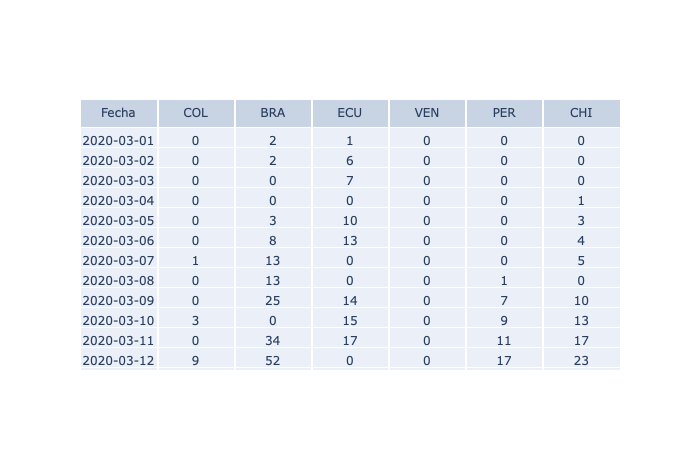
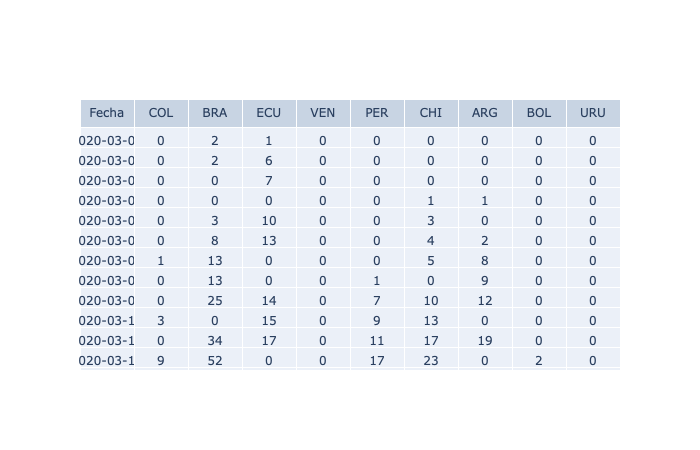
Se actualizó algunas secciones del código, título, se agregaron más países y se

diff --git a/grafico_evo_covid_19_suramerica_python.py b/grafico_evo_covid_19_suramerica_python.py
@@ -8,7 +8,9 @@ import numpy as np
 import datetime
 import plotly.graph_objects as go
 
-x1 = np.linspace(0.0, 50, 100, 4000)
+#x1 = np.linspace(0.0, 25, 100, 200, 300)
+
+#x1 = plt.axis([50, 100, 150, 200])
 
 #Incluyo algunos datos para la comparación con el total del mundial, China e Italia
 #y1 = lista_casos_Mundo = [87024,89068,90663]
@@ -20,8 +22,15 @@ y6 = lista_casos_Ecuador 	= [1, 6, 7, 0, 10,13, 0, 0,14,15,17,0, 0, 23, 28,  37,
 y7 = lista_casos_Venezuela 	= [0, 0, 0, 0,  0, 0, 0, 0, 0, 0, 0,0, 0,  0, 10,  15, 33, 33, 33, 33,  36,  36,  36]
 y8 = lista_casos_Peru 	= [0, 0, 0, 0, 0, 0, 0, 1, 7, 9, 11, 17,22, 38,  43, 71,  86, 117, 145, 234, 263,  318,  363]
 y9 = lista_casos_Chile 	= [0, 0, 0, 1, 3, 4, 5, 0, 10, 13, 17, 23,33, 43,  61, 75,  156, 201, 238, 342, 434,  537,  632]
+y10 = lista_casos_Argentina 	= [0, 0, 0, 1, 0, 2, 8, 9, 12, 0, 19, 0, 31, 34,  45, 56,  65, 79, 97, 128, 158,  225,  266]
+y11 = lista_casos_Bolivia 	= [0, 0, 0, 0, 0, 0, 0, 0, 0, 0, 0, 2, 31, 34,  45, 56,  65, 79, 97, 128, 158,  225,  266]
+y12 = lista_casos_Uruguay 	= [0,0,0,0,0,0,0,0,0,0,0,0,0,0,6,8,29,50,79,94,110,135,158]
 
-fig, ax = plt.subplots(figsize=(5, 3), tight_layout=True)
+
+#Controla el tamaño de la gráfica
+fig, ax = plt.subplots(figsize=(7, 5), tight_layout=True)
+#Título de la ventan creada
+fig.canvas.set_window_title('Total casos confirmados COVID-19 Sur América')
 
 #Se establece la fecha inicio para graficar los datos.
 base = datetime.date(2020, 3, 1) 
@@ -36,12 +45,16 @@ plt.title("Gráfica de la distribución total de personas reportadas \n por COVI
 #ax.plot(time1, y1, 'go-', label='Mundo', color='red', marker='o')
 #ax.plot(time2, y2, 'go-', label='China', color='black', marker='o')
 #ax.plot(time3, y3, 'go-', label='Italia', color='blue', marker='o')
-ax.plot(time, y4, 'go-', label='Colombia', color='red', marker='*')
-ax.plot(time, y5, 'go-', label='Brasil', color='green', marker='.')
-ax.plot(time, y6, 'go-', label='Ecuador', color='purple', marker='.')
-ax.plot(time, y7, 'go-', label='Venezuela', color='brown', marker='.')
-ax.plot(time, y8, 'go-', label='Peru', color='orange', marker='.')
-ax.plot(time, y9, 'go-', label='Chile', color='gray', marker='.')
+ax.plot(time, y4, 'go--', label='Colombia', color='red', marker='*')
+ax.plot(time, y5, 'go-', label='Brasil', color='green', marker='')
+ax.plot(time, y6, 'go-', label='Ecuador', color='purple', marker='')
+ax.plot(time, y7, 'go-', label='Venezuela', color='brown', marker='')
+ax.plot(time, y8, 'go-', label='Peru', color='orange', marker='')
+ax.plot(time, y9, 'go-', label='Chile', color='gray', marker='')
+ax.plot(time, y10, 'go-', label='Argentina', color='blue', marker='')
+ax.plot(time, y11, 'go-', label='Bolivia', color='yellow', marker='')
+#ax.plot(time, y12, 'go-', label='Uruguay', color='yblack', marker='')
+
 
 plt.legend(loc = "upper left") #Permite que las leyendas se muestren
 
@@ -49,11 +62,16 @@ plt.legend(loc = "upper left") #Permite que las leyendas se muestren
 ax.tick_params(axis='x', rotation=80)
 
 #Imprime la tabla
-fig = go.Figure(data=[go.Table(header=dict(values=['Fecha','COL','BRA','ECU','VEN','PER','CHI']),
-                 cells=dict(values=[time, y4, y5, y6, y7, y8, y9]))
+fig = go.Figure(data=[go.Table(header=dict(values=['Fecha','COL','BRA','ECU','VEN','PER','CHI','ARG','BOL','URU']),
+                 cells=dict(values=[time, y4, y5, y6, y7, y8, y9, y10, y11, y12]))
 ])
 
 fig.show()
-plt.grid(True)
+#plt.grid(True) #Grilla por defecto.
+#Grilla modificada
+plt.grid(color='b', alpha=0.5, linestyle='dashed', linewidth=0.5)
+
+#ax = plt.subplots(2,1,1)
+
 
 plt.show()
